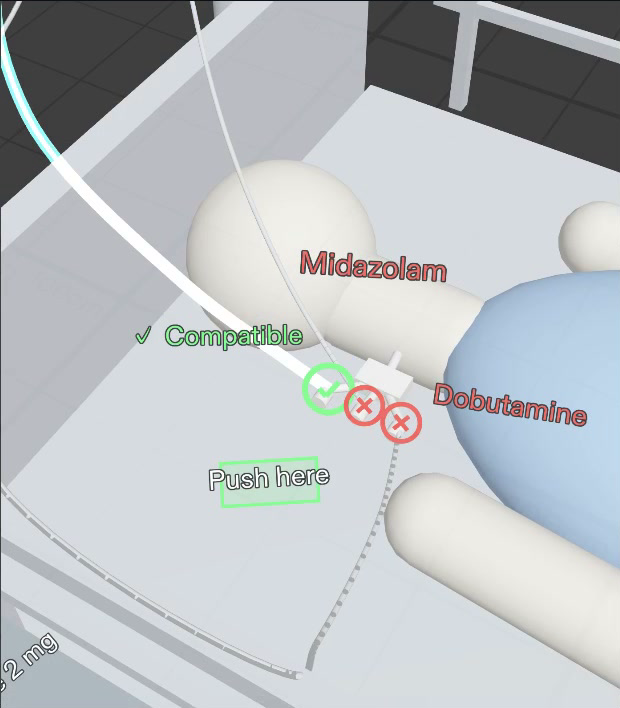
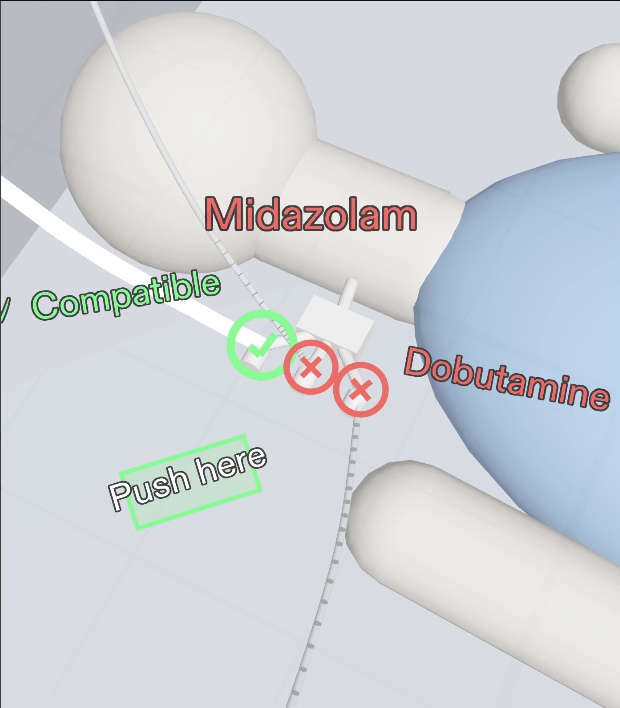
README and screenshots for the one-take demo video
- New YouTube demo (2:44) with one unbroken 67 s take of the Lens from 0:37
- How Lumen knows on real SPECS, and how the plan-lens skill shaped it
- Detail-follows-attention levels with new Lens Studio screenshots
- Teaser GIF from the one-take footage

diff --git a/README.md b/README.md
@@ -9,16 +9,21 @@
 ![Built with](https://img.shields.io/badge/built%20with-Claude%20Code%20%2B%20Snap%20CLAD-D97757)
 ![CI](https://github.com/vivekyarra/Lumen/actions/workflows/ci.yml/badge.svg)
 
-<p align="center"><img src="devpost/demo/lumen-teaser.gif" width="760" alt="Lumen in the Lens Studio preview: pick up furosemide, every port turns green or red, the Midazolam line lights to its pump"></p>
+<p align="center"><img src="devpost/demo/lumen-teaser.gif" width="760" alt="Lumen in the Lens Studio preview: she walks to the bed, the port she looks at says why, she leans in and every red port explains itself, she pinches and the Midazolam line lights"></p>
 
 <p align="center">
-  <a href="https://youtu.be/Ija_HBTAqF8"><b>▶ Watch the demo (2:28)</b></a> &nbsp;·&nbsp;
+  <a href="https://youtu.be/YX1-vsHfvDU"><b>▶ Watch the demo (2:44)</b></a> &nbsp;·&nbsp;
   <a href="https://vivekyarra.github.io/Lumen/"><b>🌐 Try it in your browser</b></a> &nbsp;·&nbsp;
   <a href="devpost/design-brief.md"><b>📐 Design brief</b></a> &nbsp;·&nbsp;
   <a href="devpost/leaf-results.md"><b>✅ LEAF results</b></a>
 </p>
 
-*Built for **Learn AR with SPECS** (Devpost Learn).*
+*Built for **Learn AR with SPECS** (Devpost Learn).* The video has **one unbroken take** of the Lens in the
+Lens Studio preview, 67 seconds, real time, no cuts, from [0:37](https://youtu.be/YX1-vsHfvDU?t=37).
+
+**How it knows, on real SPECS:** the SPECS camera reads the syringe barcode and follows each tube to its pump, and
+the pumps send their drugs, rates and alarms over the hospital network. In the Lens Studio preview the same inputs come
+from a modelled bedside.
 
 ---
 
@@ -41,16 +46,24 @@ and new-graduate nurses who meet a patient's lines for the first time.
 
 | | |
 |---|---|
-| ![Holding furosemide](devpost/screenshots/ls-02-holding-furosemide.png) | **1 · Pick up the syringe.** Lumen reads the drug in her hand: *Holding: Furosemide 40 mg*. |
-| ![Red port, redirect](devpost/screenshots/ls-03-red-port-redirect.png) | **2 · Every port answers.** Green ✓ is safe. Red ✕ says why, right on the port: *✕ Midazolam: do not push here*, with an arrow to the safe port: *Use Distal ✓*. |
-| ![Trace to the pump](devpost/screenshots/ls-04-trace-to-pump.png) | **3 · Pinch a port, see its line.** That one tube lights through the tangle, all the way to its pump: *Midazolam · 3 mL/h · Pump 1*. |
-| ![Push here](devpost/screenshots/ls-05-push-here.png) | **4 · Push here.** On the safe port, one pinch confirms. Lumen logs *Furosemide 40 mg → CVC Distal* and goes quiet. |
-| ![Pump alarm](devpost/screenshots/ls-07-pump-alarm.png) | **5 · An alarm she can't see.** Pump 2 alarms behind her. A chime and an edge arrow turn her head, and the line glows amber to the exact kink. |
-| ![Kink, Resolved](devpost/screenshots/ls-08-kink-resolved.png) | **6 · Resolved.** One pinch clears it. At shift change, one pinch on the IV pole walks every line, bag to pump to port. |
+| ![Holding furosemide](devpost/screenshots/ls-02-holding-furosemide.png) | **1 · Pick up the syringe.** Lumen reads the drug in her hand: *Holding: Furosemide 40 mg*. Every port answers at once: green ✓ is safe, red ✕ is not. |
+| ![Looking at port B](devpost/screenshots/ls-10-detail-look.png) | **2 · The port she looks at says why.** From across the room she sees only ✓ and ✕. At the bed, the port nearest the centre of her view adds one word: *Midazolam*. Its neighbours 4 cm away stay quiet. She looks at the next port, and the word moves with her eyes. |
+| ![Leaning in](devpost/screenshots/ls-12-detail-lean-in.png) | **3 · Lean in, every red port speaks.** Closer than 80 cm, each red port says why. All of it is recomputed every frame from her head pose; nothing is hard-coded. |
+| ![Red port, redirect](devpost/screenshots/ls-03-red-port-redirect.png) | **4 · Pinch the red port.** The full answer: *Midazolam: do not push here*, and an arrow to the safe port: *Use Distal ✓*. |
+| ![Trace to the pump](devpost/screenshots/ls-04-trace-to-pump.png) | **5 · Pinch a port, see its line.** That one tube lights through the tangle, all the way to its pump: *Midazolam · 3 mL/h · Pump 1*. |
+| ![Push here](devpost/screenshots/ls-05-push-here.png) | **6 · Push here.** On the safe port, one pinch confirms. Lumen logs *Furosemide 40 mg → CVC Distal* and goes quiet. |
+| ![Pump alarm](devpost/screenshots/ls-07-pump-alarm.png) | **7 · An alarm she can't see.** Pump 2 alarms behind her. A chime and an edge arrow turn her head, and the line glows amber to the exact kink. |
+| ![Kink, Resolved](devpost/screenshots/ls-08-kink-resolved.png) | **8 · Resolved.** One pinch clears it. At shift change, one pinch on the IV pole walks every line, bag to pump to port. |
+| ![Morphine, all green](devpost/screenshots/ls-13-morphine-all-green.png) | **9 · Data, not art.** She picks up morphine instead, and all four ports turn green at once. The answer comes from the compatibility table, every time. |
 
-**Detail follows her eyes:** the words on the ports are recomputed every frame from where she stands and looks.
-From across the room she sees only ✓ and ✕. At the bed, the port she looks at says why, for example *Midazolam*, and
-its neighbours 4 cm away stay quiet. Lean in and every red port says why. Pinch, and she gets the full answer.
+**Detail follows her eyes:** four levels, from the same rule in [`Core/Attention.ts`](Assets/Lumen/Core/Attention.ts):
+
+| Where she is | What the red ports show |
+|---|---|
+| Across the room (> 1.4 m) | ✓ / ✕ rings only |
+| At the bed, looking at a port | that port's reason, e.g. *Midazolam* |
+| Leaning in (< 80 cm) | every port's reason |
+| Pinch | the full answer, and the way to the safe port |
 
 **Quiet by design:** at rest, Lumen shows only faint dots on the ports. It speaks up when a syringe is in her hand
 or a pump needs her, and then gets out of the way. **Safe by default:** a drug pair Lumen doesn't know is never shown
@@ -82,6 +95,18 @@ flowchart LR
   Spectacles Interaction Kit pinch targets and spatial audio.
 - **The same done criteria run three ways:** LEAF in the Lens Studio preview, the state machine in Node, and the
   rendered web twin in Chromium. All three pass 11 / 11.
+
+## How the skill pack helped
+
+The Devpost Learn `plan-lens` skill interviewed us before any code and wrote [`devpost/design-brief.md`](devpost/design-brief.md).
+It shaped Lumen in three ways:
+- **One spatial moment.** It made us pick a single moment, the check before an IV push, and build everything around it.
+  The pump alarm became the second beat, not a second app.
+- **Where things live and when they show.** The brief fixed every label to a real object (port, pump, cart) and wrote
+  down when each one appears and goes away. That is why Lumen is quiet by default.
+- **Done criteria that became tests.** Each done criterion in the brief is a scenario in `Core/Scenarios.ts`, run by
+  LEAF in Lens Studio and by CI on every pull request. When we added *detail follows attention*, we added it to the
+  brief first, as criterion 6, then as DC11.
 
 ## Built with Claude Code + Snap CLAD
 
